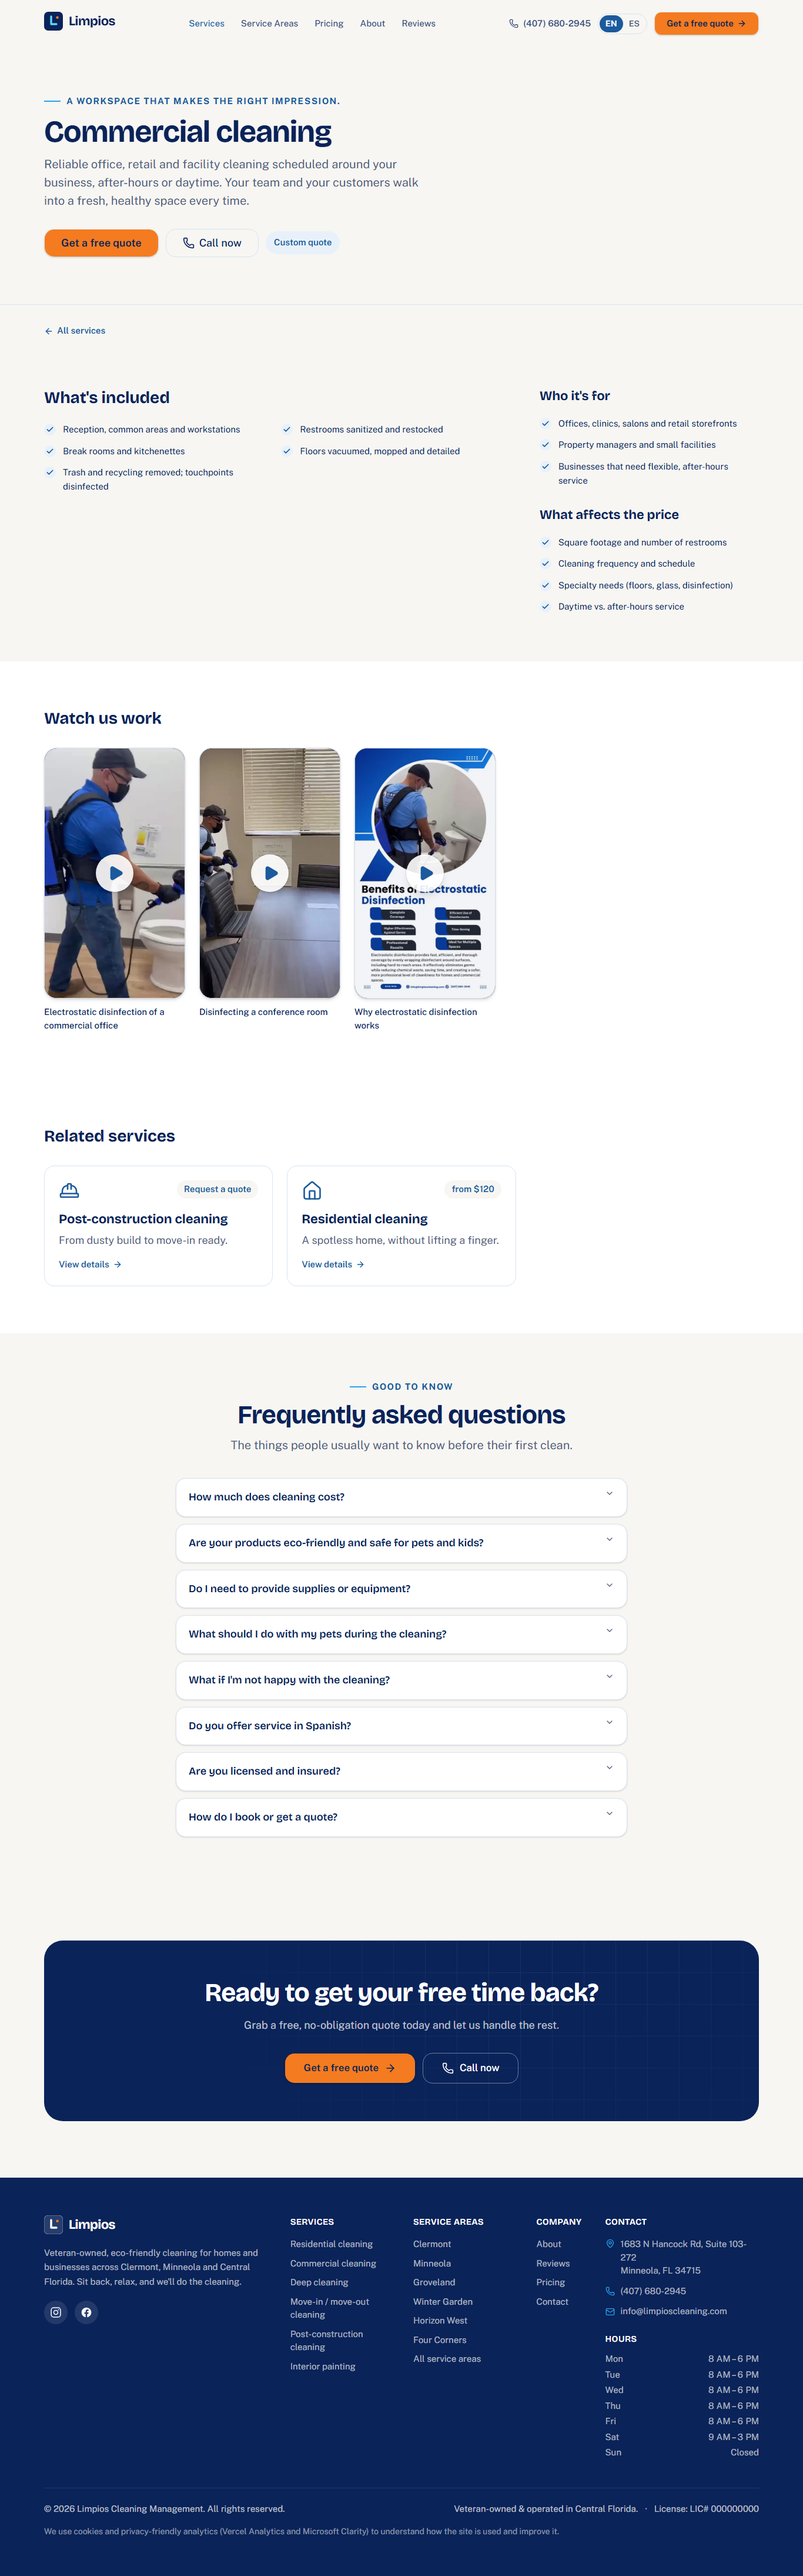
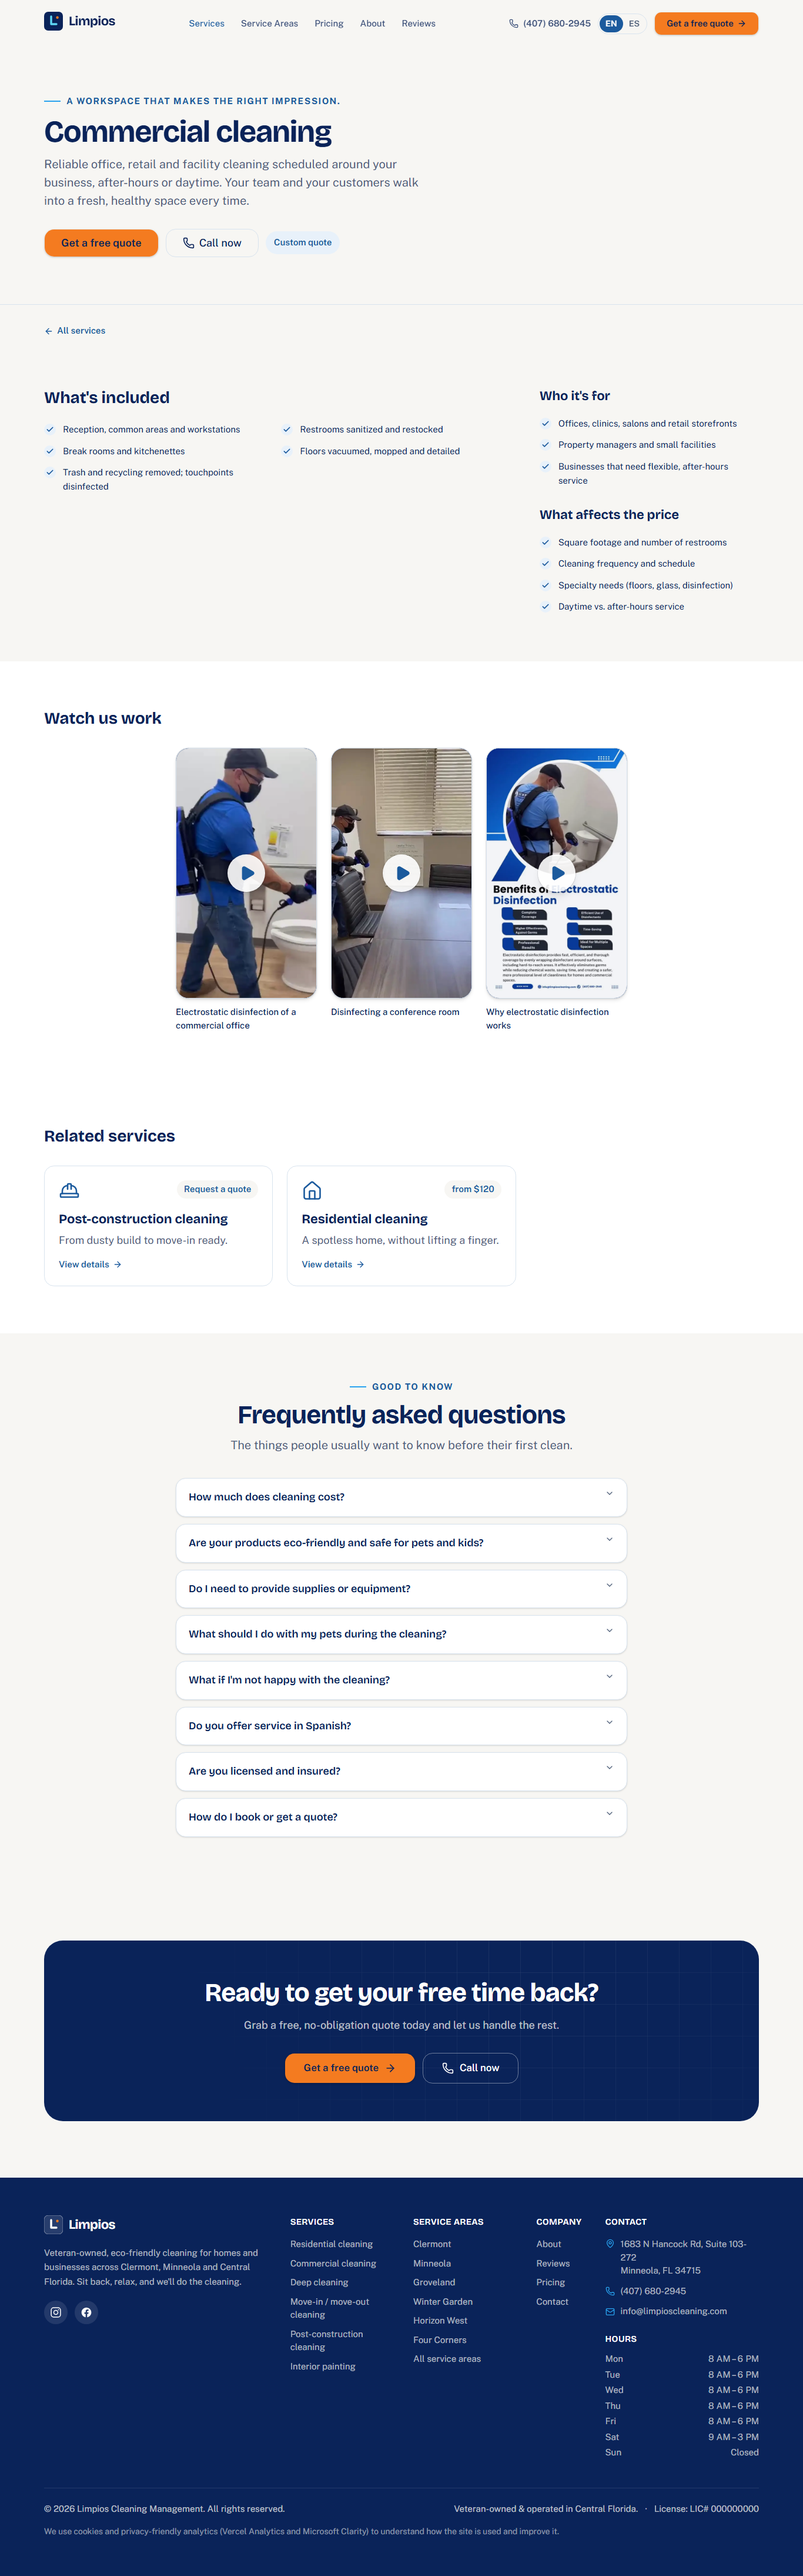
docs(audit): final UX/UI audit report + sign-off screenshots (Final Audit Part 5)
docs/UX_UI_AUDIT_FINAL.md — the orchestrator + 7-subagent audit with every finding
independently re-verified, the consolidated findings table (what was fixed /
rejected-on-re-verify / accepted), the green baseline (axe 0 across 44 routes, CLS
0, parity/zod/smoke/build), 100% coverage inventory, and the three-bucket verdict:

- CODE — empty (all P0/P1 fixed + verified; high-value P2s fixed; rest documented).
- OWNER — the exhaustive paste-in list (license #, claims-to-confirm, real reviews,
  mascot PNG/favicon, hi-res gallery originals, Img7, GBP/map, founder, pricing,
  hours, FB).
- DEPLOY — Lighthouse-on-preview, video playback, Clarity ID, deployment protection.

Re-captured sign-off screenshots (full-page reveals-neutralized + bp-320/768/1440).

Changed region(s): [[0.0307, 0.2796, 0.7687, 0.4038]]

diff --git a/docs/UX_UI_AUDIT_FINAL.md b/docs/UX_UI_AUDIT_FINAL.md
@@ -1,0 +1,170 @@
+# Limpios Cleaning — Final UX/UI Audit (orchestrator + subagents)
+
+**Scope.** The closing, designer-grade audit of the whole bilingual surface, run as
+an **orchestrator + 7 parallel subagents** (per the Final-Audit brief). Every
+subagent finding was **independently re-verified by the orchestrator** before being
+accepted or fixed — re-running the tool, re-reading the cited `file:line`,
+re-measuring geometry, or re-grepping. This ran **after** the Part-1 fix batch, so
+it reflects the finished state.
+
+**Method.** Local **production** build (`next build` → `next start` on `:3100`),
+Playwright + axe-core, the form/smoke harnesses, Vitest (parity + zod), and direct
+source review. 7 subagents: **A** visual · **B** layout/responsive · **C** nav/IA ·
+**D** forms · **E** a11y · **F** content/i18n · **G** perf/SEO. Sign-off screenshots
+in [`docs/screenshots/`](screenshots) (full-page reveals-neutralized + `bp-{320,768,1440}-*`).
+
+---
+
+## Verdict
+
+**The CODE bucket is empty.** Every in-our-control P0/P1 was fixed and
+independently re-verified; the high-value P2s were fixed too. What remains is
+exactly two things: **Papo's real content** (the OWNER list) and **deploy-side
+checks** (the DEPLOY list). Baseline is green — axe **0 violations across 44
+routes**, CLS **0**, parity/zod/smoke/build all pass. A reviewer with the page and
+the codebase open will find nothing left to change that isn't owner content or a
+deploy step.
+
+---
+
+## 1. Coverage inventory (100% audited)
+
+**Routes — both locales (`/en` + `/es`), 44 total:** home `/`; `/services` + 6
+service pages (residential, commercial, deep-cleaning, move-in-out,
+post-construction, interior-painting); `/service-areas` + 8 city pages (clermont,
+minneola, groveland, winter-garden, horizon-west, four-corners, montverde,
+mascotte); `/pricing`; `/quote`; `/about`; `/reviews`; `/contact`; `404`.
+
+**Sections:** hero, trust strip, "See us in action," services, how-it-works,
+why-us, before/after gallery (+ "See more" disclosure), reviews, service-area,
+FAQ, CTA, page-heros, story/mission/eco/values/team, pricing tables, footer.
+
+**Interactive:** header nav (desktop + mobile sheet), language switcher, all CTAs,
+quote modal (every step), contact form, before/after wipe sliders, FAQ accordions,
+6 YouTube video facades + the self-hosted hero video, the "See more" `<details>`,
+card links, tap-to-call.
+
+Each slice was assigned to a subagent (A–G) and confirmed covered. ✔ 100%.
+
+## 2. Findings — consolidated, deduped, with disposition
+
+Severities: **P0** blocker · **P1** real defect · **P2** polish. Every "FIXED" was
+re-verified by the orchestrator (method in parentheses).
+
+### P0
+| # | Area | Finding | Disposition |
+|---|---|---|---|
+| 1 | Content (F, A) | The internal `(TODO confirm with Papo)` parenthetical rendered as **visible body copy** (home/about/services/FAQ, EN+ES). | **FIXED** — stripped from 8 strings; claims moved to OWNER list. (re-grep: 0 occurrences rendered) |
+
+### P1
+| # | Area | Finding | Disposition |
+|---|---|---|---|
+| 2 | Layout (B) | City-page CTA overflowed at 320px (long ES labels, +19px). | **FIXED** — `w-full` + `whitespace-normal` on mobile. (geometry: scrollW ≤ innerW, EN+ES winter-garden @320) |
+| 3 | Layout (B) | Mobile header hamburger + call buttons were 36px (< 44). | **FIXED** — bumped to 44×44. (geometry @375: both 44×44) |
+| 4 | Forms (D) | Quote/contact dialog returned focus to `<body>` on ESC, not the trigger (WCAG 2.4.3). | **FIXED** — `onCloseAutoFocus` + `triggerRef`. (runtime: ESC → activeElement is the hero CTA) |
+| 5 | SEO (C, G) | City pages emitted **no JSON-LD** (the local-SEO money pages). | **FIXED** — LocalBusiness + BreadcrumbList. (rendered: both present) |
+| 6 | Perf (G) | Desktop LCP is the mascot emblem, not the headline. | **VERIFIED — ACCEPTED** (see §3). |
+
+### P2
+| # | Area | Finding | Disposition |
+|---|---|---|---|
+| 7 | SEO (C, G) | Hubs + pricing/about/reviews/contact had no BreadcrumbList. | **FIXED** — shared `BreadcrumbJsonLd` on all main pages. (rendered: present on all 7) |
+| 8 | Visual (A) | Lone service video sat hard-left in empty space. | **FIXED** — centered. (geometry: equal 488px margins) |
+| 9 | Visual (A) | Two back-to-back `cool` sections (Before&After → Reviews) merged. | **FIXED** — hairline divider; reviews stay cool so white cards keep contrast. |
+| 10 | Forms (D) | No same-tick double-submit guard. | **FIXED** — in-flight `useRef`. |
+| 11 | Content (F) | Dead `Common.placeholderTag` key; stale `media.ts` comment. | **FIXED** — deleted key; refreshed comment. |
+| 12 | Visual (A) | Hero "~190px" mobile dead space. | **REJECTED** — re-measured: 78px = the intended hero top-padding; eyebrow renders at 159px. Not a defect. |
+| 13 | Layout (B) | Mobile sheet links "26px"; close-X 28px; summary 43px. | **REJECTED / ACCEPTED** — re-measured: sheet links **50px**; close-X 28px and summary 43px both exceed the **WCAG 2.2 AA 24px** target minimum (44px is AAA). The two primary header controls were raised to 44 anyway (#3). |
+| 14 | Visual (A) | `#6c7d97` step numbers, `#f5a623` star gold, `0.95rem` review text off the token scale. | **ACCEPTED** — deliberate: the step numbers are `aria-hidden` and contrast-tuned, the star gold is intentionally non-brand, and 0.95rem is a reading size above the 14px floor. |
+| 15 | Forms (D) | Server lead-schema doesn't enum service/property/frequency. | **ACCEPTED** — server bounds lengths + honeypot + per-IP rate-limit + client enums; enum-tightening (lists live in the client) deferred as low-risk. |
+
+### Verified clean (no action) — across all 44 routes EN+ES
+axe **0 violations**; one `<h1>`/route, no heading skips, all `alt`; landmarks +
+uniquely-labelled `nav`s + working skip link; `lang` per locale; How-It-Works is a
+semantic `<ol><li>`; slider/dialog/accordion ARIA correct; focus-visible +
+reduced-motion + no-JS resilience; **all 52 internal links resolve, 0 orphans,
+click-depth ≤ 1**; language switcher preserves deep paths EN⇄ES; quote reachable in
+0 clicks everywhere; `?service=` prefill works; pending/disabled + error states +
+honeypot correct; metadata/canonical/hreflang(en/es/x-default)/OG per route;
+LocalBusiness/Service/FAQPage/Breadcrumb JSON-LD; sitemap (44 locs) + robots 200;
+fonts self-hosted; all images `next/image` (no raw `<img>`); CLS **0**.
+
+**Contrast (the critics' two + body), computed from tokens:** CTA navy-on-orange
+**5.51:1 PASS**; "from $120" royal-on-cool **6.49:1 PASS** (soft badge 6.14:1);
+muted body on cool **5.90:1 PASS**. All clear AA.
+
+## 3. The one "accepted, not fixed" item — desktop LCP
+
+Desktop LCP is the hero **mascot emblem** (250,880px², painted ~340ms), not the
+headline. This was verified and **deliberately kept**:
+
+- ~340ms is an **excellent** LCP, far under the 2.5s "good" threshold — the actual
+  performance goal (a fast, non-blocking LCP) is met.
+- The emblem is the largest above-the-fold element by ~2×; removing its `priority`
+  would **not** make the headline the LCP (the emblem would still be largest, just
+  painting later) — it would only **delay** the LCP, **regressing** it, which the
+  "performance must not regress" guardrail forbids.
+- Mobile LCP is a small image, sub-second; the headline is the largest paint there.
+
+So the headline-LCP heuristic's intent (avoid a slow image LCP) is satisfied. The
+authoritative field LCP is a Vercel-preview check (DEPLOY).
+
+## 4. Baseline (green)
+
+`typecheck · lint · test · build` ✓ · placeholder-guard ✓ (28 known owner items,
+0 new) · axe **0/44** · CLS **0** · smoke (routes + no-JS + reduced-motion) ✓ ·
+parity 10/10 · zod ✓ · no 320/390 overflow · forms (validation + happy path +
+prefill + honeypot + error + pending) ✓.
+
+---
+
+## 5. OWNER — the paste-in list (Papo's real content)
+
+Everything still placeholder, with where it lives and what to replace. (The guard
+flags these as "known"; they're the only non-CODE items left.)
+
+**Identity / legal**
+- `src/content/site.ts:63` `license: "LIC# 000000000"` → real FL license/registration #.
+- `src/content/site.ts:78` `foundedYear: 2021` → confirm (drives "since {year}" + copyright).
+
+**Founder / About**
+- `src/content/founder.ts:9-13` owner `name`, `photo`, optional `videoUrl`, `yearsExperience` → real values (none currently render).
+- `messages/{en,es}.json` About story + the now-de-parenthesised **claims to confirm**: military service, HEPA vacuums, eco/low-odor products, 24-hr re-clean. If any is not literally true, reword. (These were de-TODO'd so they don't ship as "TODO," but Papo must confirm the claims.)
+- `src/app/[locale]/about/page.tsx:54` mascot stands in for a real owner photo.
+
+**Reviews (honesty gate stays until real)**
+- `src/content/reviews.ts:30-37` 6 sample reviews → real verified Google reviews; quotes in `Reviews.items.r1–r6`. Then flip `reviewsArePlaceholder` → `false` (re-enables AggregateRating).
+- `src/content/site.ts:70-74` placeholder rating/count + `reviewUrl` → real GBP rating + real "leave a review" URL (also `reviews/page.tsx:47`).
+
+**Pricing (placeholder estimates)**
+- `src/content/services.ts:43,57,64` & `src/content/pricing.ts` → confirm publishable prices.
+
+**Brand assets** (unlocks the deferred hero badge + favicon)
+- `src/components/brand/mascot.tsx` → transparent-bg mascot PNG.
+- `src/components/brand/logo.tsx` → real vector mark. (favicon/OG follow.)
+
+**Media**
+- `src/content/gallery.ts` → higher-res **separate** before/after originals (current halves are ~506px split from composited squares; this also unlocks true per-image aspect — some pairs could go landscape).
+- **Img7** (kitchen) → confirm it's a cleaning (vs painting) transformation, else re-caption/re-route.
+- Confirm consent to publish team faces (Vid2/3/5/7).
+- Confirm the wired unlisted-YouTube embeds **play** on the deploy (IDs already in `media.ts`).
+
+**Contact / geo / social / hours**
+- `src/content/site.ts:38` geo lat/long · `:44` real Facebook URL · `:52-59` confirm hours · `cities.ts:28` confirm ZIP coverage.
+- `contact/page.tsx:148` + `service-area.tsx:54` → real embedded Google map (currently a stylized placeholder) / real GBP.
+
+## 6. DEPLOY — needs Vercel (intentionally deferred)
+
+- **Lighthouse on the Vercel preview** — authoritative Perf/SEO/BP/CWV (local shows the known `_vercel/insights` 404 + canonical-points-to-prod-domain artifacts that resolve on Vercel). Confirm ≥ 95.
+- **Video playback** confirmation on the deployed origin (YouTube embeds + the self-hosted hero clip).
+- **`NEXT_PUBLIC_CLARITY_ID`** (+ optional `NEXT_PUBLIC_GA_ID`) set in Vercel — left for launch.
+- **Deployment Protection** / `LEAD_FROM_EMAIL` verified sender + Upstash/KV for durable leads.
+
+---
+
+## Definition of done
+- [x] Part-1 fix batch shipped (clickable cards, dynamic year, placeholder guard, curated gallery, ol/li).
+- [x] Full audit via 7 parallel subagents; **every fix independently re-verified** by the orchestrator.
+- [x] **CODE bucket empty** — all P0/P1 fixed; high-value P2s fixed; the rest are documented accepted-design or OWNER/DEPLOY.
+- [x] Baseline green (axe 0, parity, zod, smoke, build); 100% inventory coverage.
+- [x] This report committed to `docs/`. Pushed.
